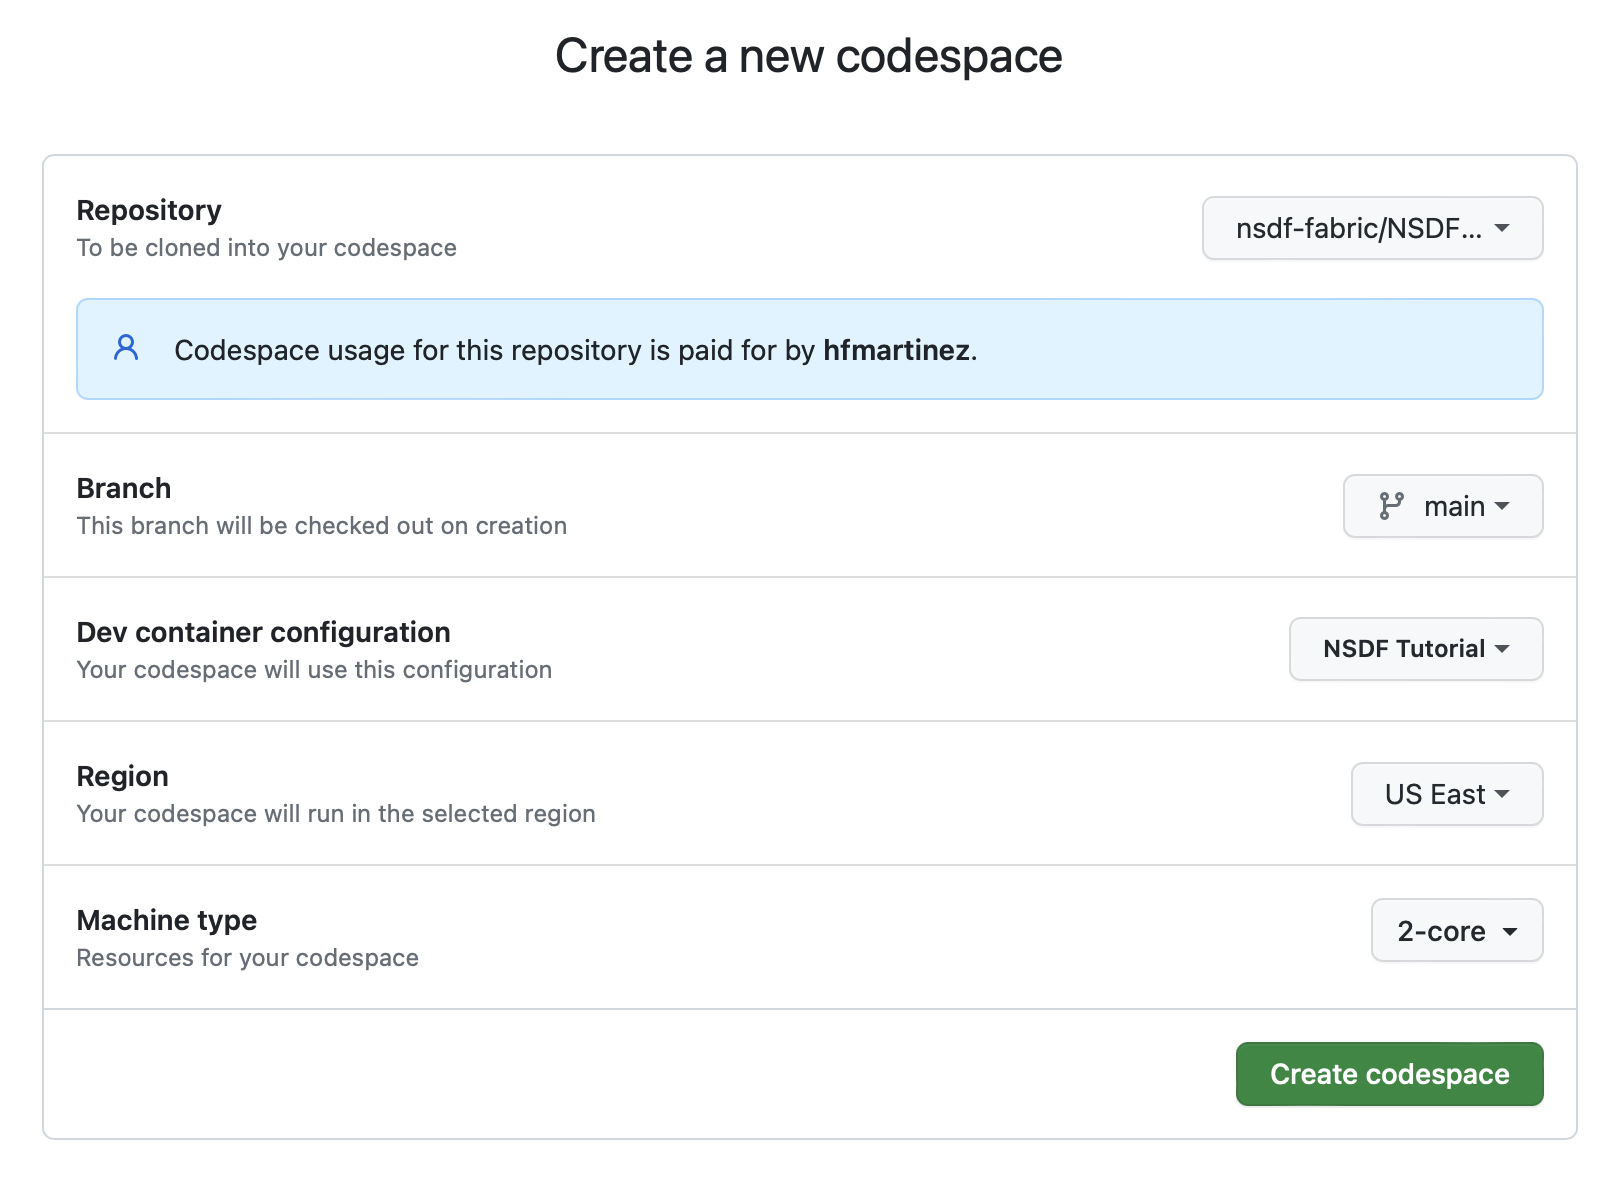
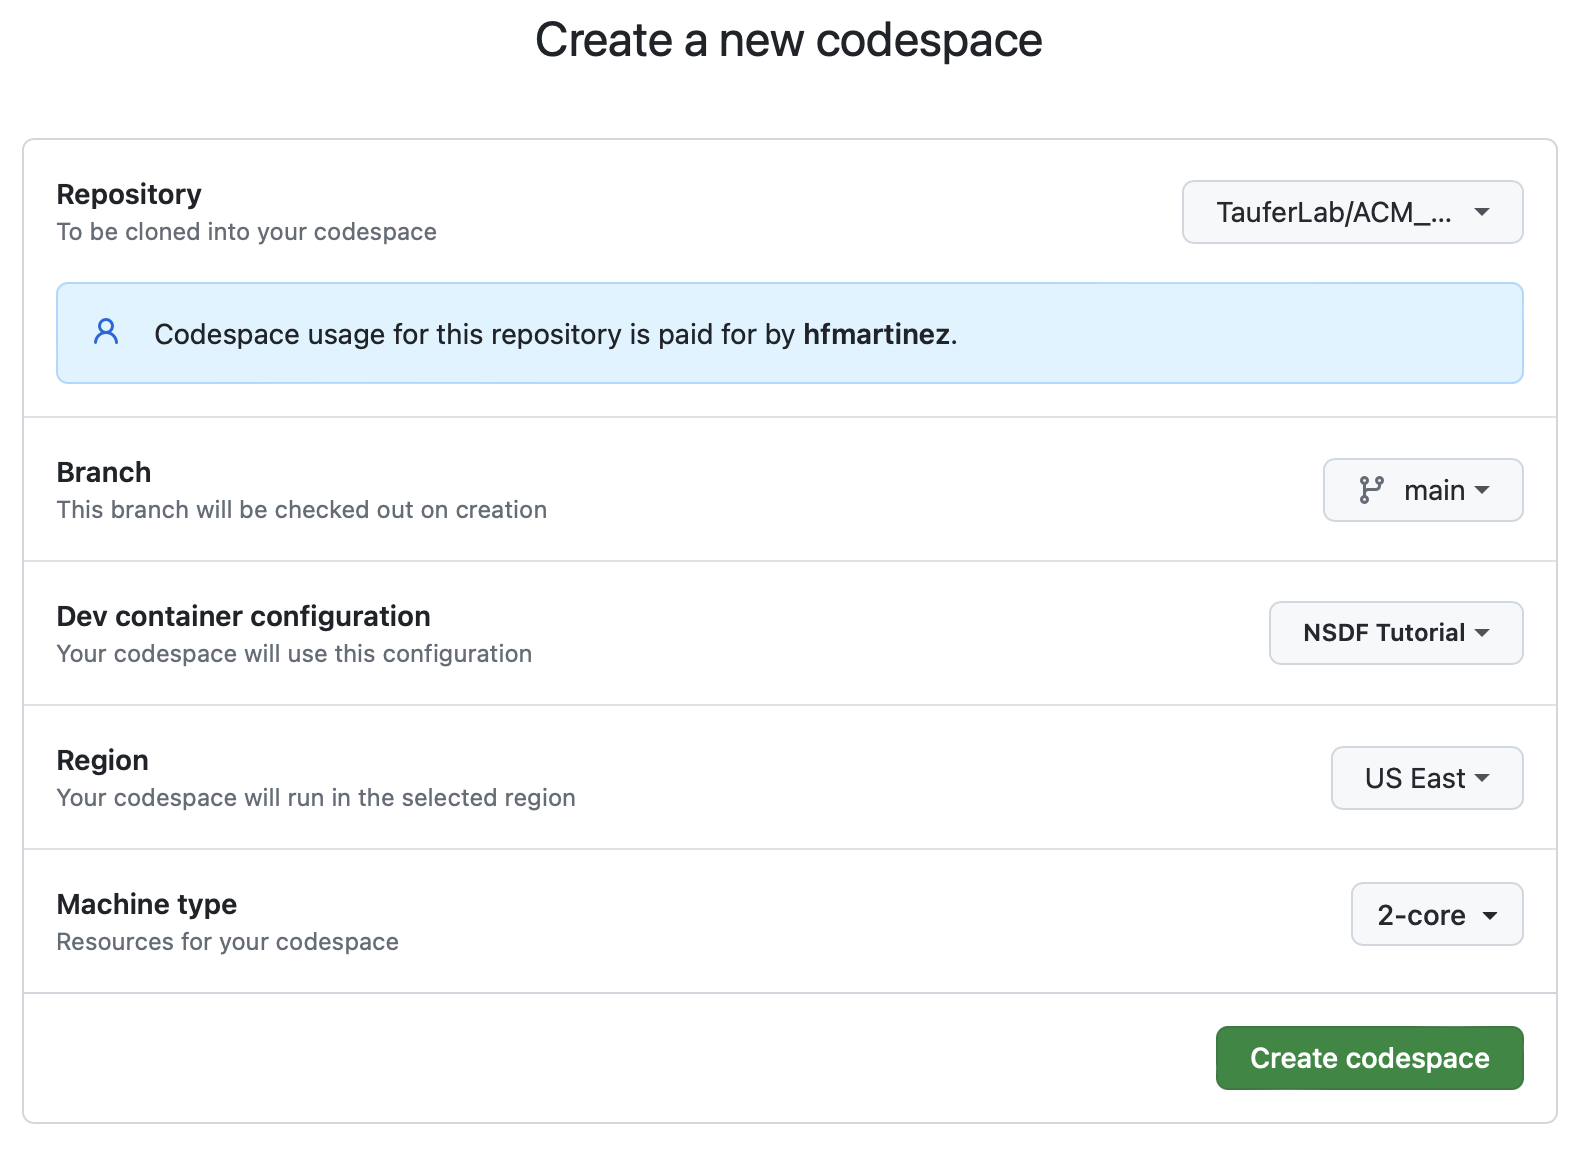
[update] readme file

diff --git a/hands-on/README.md b/hands-on/README.md
@@ -112,11 +112,11 @@ Use your GitHub account to run this tutorial with GitHub Codespaces
 
 Please click the next button to open in GitHub Codespaces
 
-[![Open in GitHub Codespaces](https://github.com/codespaces/badge.svg)](https://codespaces.new/nsdf-fabric/NSDF_Tutorial)
+[![Open in GitHub Codespaces](https://github.com/codespaces/badge.svg)](https://codespaces.new/tauferlab/ACM_summer_school_2024)
 
 Now follow these steps to set up your virtual environment using GitHub codespaces:
 
-Verify that you are using the `main` branch, the repository name `nsdf-fabric/NSDF_Tutorial` and the dev container configuration `NSDF Tutorial`. Then click on `Create Codespace`
+Verify that you are using the `main` branch, the repository name `tauferlab/ACM_summer_school_2024` and the dev container configuration `NSDF Tutorial`. Then click on `Create Codespace`
 
 <p align="center">
     <img src="files/docs/codespaces.png" width="800">
